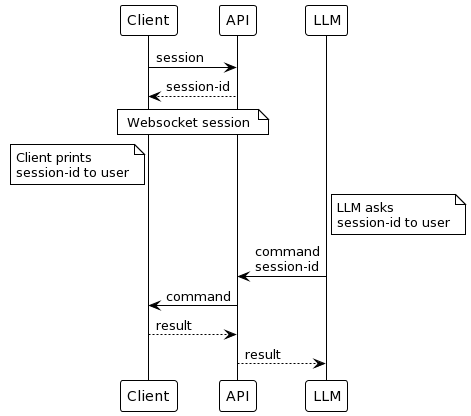
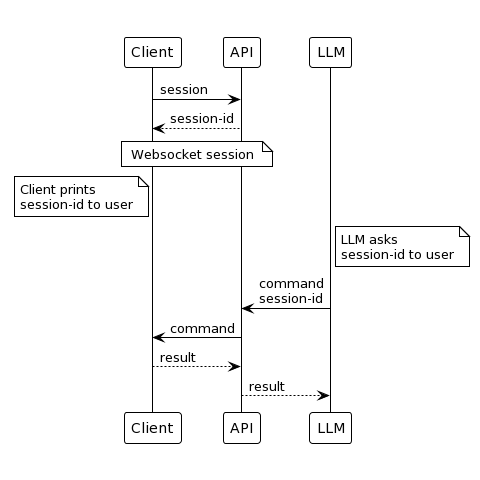
updated protocol image

Changed region(s): [[0.0, 0.0, 1.0, 1.0], [0.3567, 0.9688, 0.3864, 1.0]]

diff --git a/README.md b/README.md
@@ -53,7 +53,7 @@ By default, this client connects to a demo public API server linked to the Serve
 The witch protocol is illustrated as follows:  
 
 <p align="center">
-  <img width="80%" src="protocol.png">
+  <img width="100%" src="protocol.png">
 </p>
 
 ## Building
